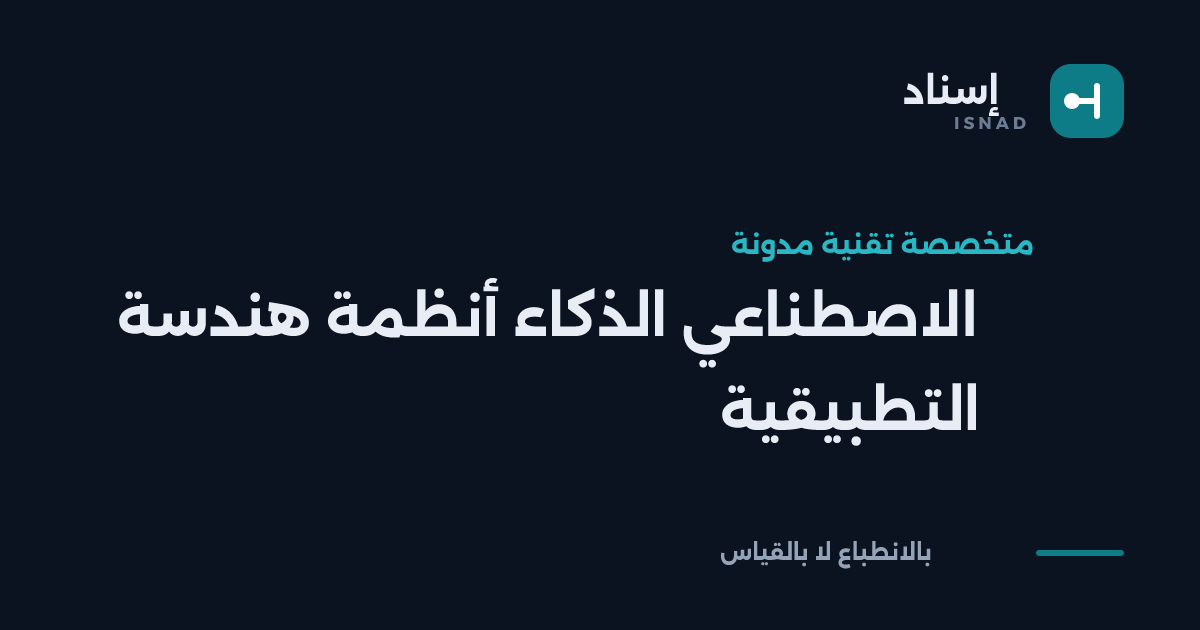
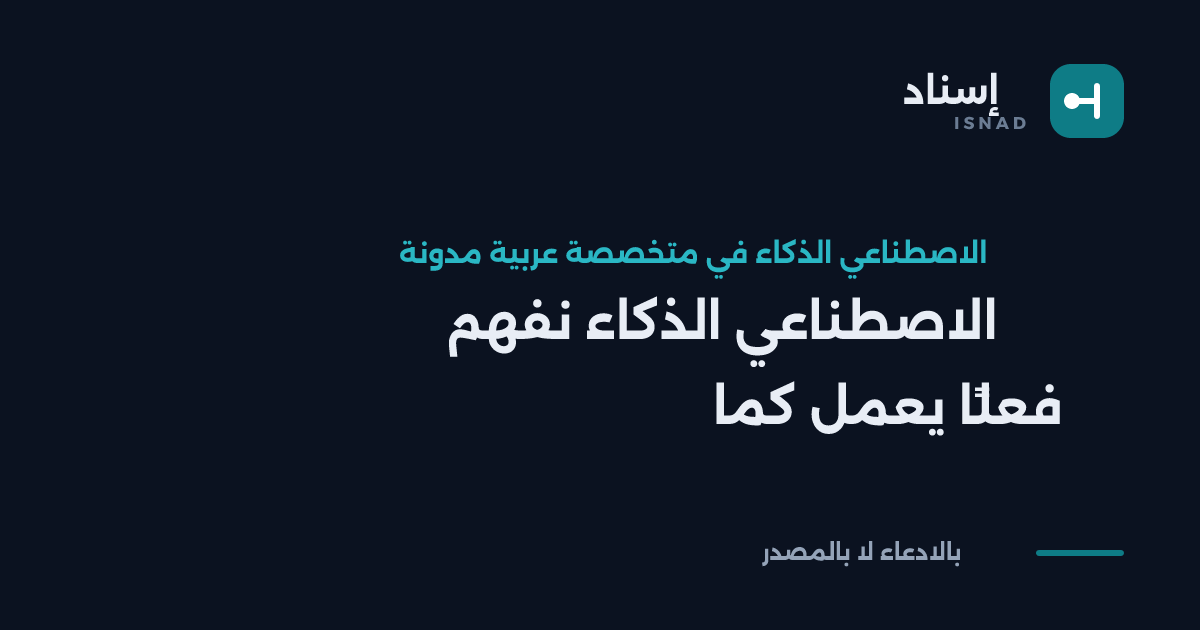
بطاقة المشاركة تُشتقّ من نصوص الرئيسية لا من الكود
كانت الشكوى أن البطاقة تعرض محتوى لا يطابق الموقع إذا فُتح. وهذا صحيح،
والسبب عيب في تصميمي: جعلتُ نصوص الرئيسية قابلة للتحرير من `/admin` ولم
أربط بها بطاقة المشاركة. فالمالكة تحرّر الموقع والبطاقة مجمّدة على نصّ
قديم — الموقع يقول «نفهم الذكاء الاصطناعي كما يعمل فعلًا» والصورة تقول
«هندسة أنظمة الذكاء الاصطناعي التطبيقية».

وهذا أضرّ من بطاقة بلا صورة: القارئ يرى وعدًا ثم يفتح صفحة تخالفه.

- `scripts/generate-og.tsx` يقرأ `content/settings/home.md` ويكتب
  `public/og.png` وقت البناء — يُشغَّل في `prebuild` و`predev`، فكل تحرير
  ينعكس في البطاقة بلا خطوة يدوية. ملف ثابت لا مسار يُولَّد عند الطلب.
- `generateMetadata` في الرئيسية يشتقّ `title` و`description` وog وtwitter
  من الملف نفسه بدل نصوص محفورة في `siteConfig`.
- `renderOgImage` صار يأخذ سطر الأسفل معطًى بعد أن كان ثابتًا، فلا يتجمّد
  على شعار قديم. وأغلفة المقالات تمرّر شعار الموقع.

## ثلاثة عيوب في الرسم كشفها النظر إلى الصورة

- النقطة الأخيرة محرف محايد الاتجاه، فتنتقل مع عكس الكلمات إلى الطرف
  الخطأ: «بالمصدر لا بالادعاء.» تظهر «لا بالمصدر .بالادعاء». تُنزع.
- الرصف الجشع كان يترك كلمة وحيدة في السطر الأخير («فعلًا» تحت سطر كامل).
  صار يُعاد الرصف على عرض أضيق يوزّع الكلمات على العدد نفسه من الأسطر.
- مقاس الخطّ كان قفزة واحدة عند ٥٨ محرفًا؛ صار ثلاث درجات فلا يفيض
  العنوان المتوسّط ولا يُصغَّر بلا داعٍ.
- والشارة الطويلة كانت تُوصل سطرًا واحدًا يفيض عن العرض؛ صارت تُرسم أسطرًا.

## تصحيح

قلتُ في الجولة السابقة إن الزاحف يتخلّى عن الصورة المولَّدة عند الطلب.
[…]

Changed region(s): [[0.0925, 0.3619, 0.8942, 0.7238], [0.5858, 0.8444, 0.8017, 0.9048]]

diff --git a/src/lib/og.tsx b/src/lib/og.tsx
@@ -24,23 +24,44 @@ function loadFont(): Buffer {
  */
 const WORD_SPACE = "\u00A0";
 
-function toRtlLines(text: string, maxChars: number): string[] {
-  const lines: string[] = [];
+function wrap(words: string[], maxChars: number): string[][] {
+  const lines: string[][] = [];
   let current: string[] = [];
   let length = 0;
 
-  for (const word of text.split(/\s+/)) {
+  for (const word of words) {
     if (length + word.length + (current.length ? 1 : 0) > maxChars && current.length) {
-      lines.push(current.reverse().join(WORD_SPACE));
+      lines.push(current);
       current = [];
       length = 0;
     }
     current.push(word);
     length += word.length + (current.length > 1 ? 1 : 0);
   }
-  if (current.length) lines.push(current.reverse().join(WORD_SPACE));
+  if (current.length) lines.push(current);
 
   return lines;
+}
+
+function toRtlLines(text: string, maxChars: number): string[] {
+  const words = text.split(/\s+/).filter(Boolean);
+  if (!words.length) return [];
+
+  // الرصف الجشع يترك كلمة وحيدة في السطر الأخير («فعلًا» تحت عنوان كامل).
+  // فيُعاد الرصف على عرض أضيق يوزّع الكلمات على العدد نفسه من الأسطر.
+  let lines = wrap(words, maxChars);
+  if (lines.length > 1) {
+    const total = words.join(" ").length;
+    for (let width = Math.ceil(total / lines.length); width <= maxChars; width += 1) {
+      const balanced = wrap(words, width);
+      if (balanced.length === lines.length) {
+        lines = balanced;
+        break;
+      }
+    }
+  }
+
+  return lines.map((line) => [...line].reverse().join(WORD_SPACE));
 }
 
 /** شعار الاستلزام المنطقي مرسومًا بالعناصر — الرمز نفسه غير موجود في الخط. */
@@ -65,10 +86,19 @@ function Mark() {
   );
 }
 
-export function renderOgImage({ title, eyebrow }: { title: string; eyebrow: string }) {
+export function renderOgImage({
+  title,
+  eyebrow,
+  footer,
+}: {
+  title: string;
+  eyebrow: string;
+  /** سطر الأسفل. صار معطًى لا ثابتًا كي لا يتجمّد على شعار قديم. */
+  footer: string;
+}) {
   const font = loadFont();
   // الإسكندرية خطّ عريض؛ العرض المتاح ~١٠٤٨px، فنحسب أطول سطر يسعه المقاس.
-  const fontSize = title.length > 58 ? 46 : 54;
+  const fontSize = title.length > 58 ? 42 : title.length > 30 ? 48 : 54;
   const lines = toRtlLines(title, Math.floor(1048 / (fontSize * 0.62)));
 
   return new ImageResponse(
@@ -94,9 +124,11 @@ export function renderOgImage({ title, eyebrow }: { title: string; eyebrow: stri
         </div>
 
         <div style={{ display: "flex", flexDirection: "column", gap: 18, alignItems: "flex-end" }}>
-          <span style={{ color: "#2AB7C4", fontSize: 27 }}>
-            {toRtlLines(eyebrow, 60).join(WORD_SPACE)}
-          </span>
+          {toRtlLines(eyebrow, 46).map((line) => (
+            <span key={line} style={{ color: "#2AB7C4", fontSize: 27, whiteSpace: "nowrap" }}>
+              {line}
+            </span>
+          ))}
           {lines.map((line) => (
             <span
               key={line}
@@ -110,7 +142,7 @@ export function renderOgImage({ title, eyebrow }: { title: string; eyebrow: stri
 
         <div style={{ display: "flex", alignItems: "center", gap: 18, alignSelf: "flex-end" }}>
           <span style={{ color: "#94a3b8", fontSize: 22 }}>
-            {toRtlLines("بالقياس لا بالانطباع", 60).join(WORD_SPACE)}
+            {toRtlLines(footer, 60).join(WORD_SPACE)}
           </span>
           <div style={{ width: 88, height: 6, background: "#0E7C86", borderRadius: 999 }} />
         </div>

diff --git a/scripts/generate-og.tsx b/scripts/generate-og.tsx
@@ -1,0 +1,66 @@
+/**
+ * يولّد صورة المشاركة من نصوص الرئيسية التي تحرّرها المالكة.
+ *
+ * كانت الصورة تحمل نصًّا محفورًا في الكود، فلمّا صارت الرئيسية قابلة
+ * للتحرير من `/admin` بقيت الصورة على نصّها القديم: الموقع يقول شيئًا
+ * والبطاقة المنشورة تقول غيره. وهذا أسوأ من بطاقة بلا صورة، لأن القارئ
+ * يرى وعدًا ثم يفتح صفحة تقول سواه.
+ *
+ * تُولَّد ملفًّا ثابتًا في `public/` وقت البناء لا عند كل طلب: تعكس آخر
+ * تحرير، وتُقدَّم فورًا للزواحف بلا انتظار.
+ */
+import fs from "node:fs";
+import path from "node:path";
+
+import { parseFrontmatter } from "../src/lib/frontmatter";
+import { renderOgImage } from "../src/lib/og";
+
+const HOME = path.join(process.cwd(), "content", "settings", "home.md");
+const OUT = path.join(process.cwd(), "public", "og.png");
+
+function field(data: Record<string, unknown>, key: string, fallback: string): string {
+  return String(data[key] ?? "").trim() || fallback;
+}
+
+/** الشارة قد تحمل شرطة تفصل الوصف عن نفيه؛ الصورة تسع الشقّ الأول. */
+function shorten(text: string): string {
+  return text.split(/\s+—\s+/)[0].trim();
+}
+
+/**
+ * ينزع النقطة الأخيرة.
+ *
+ * ترتيب الكلمات في الصورة يُصحَّح بعكسها، والنقطة محرف محايد الاتجاه فتنتقل
+ * مع العكس إلى يسار الجملة: «بالمصدر لا بالادعاء.» تظهر «لا بالمصدر .بالادعاء».
+ * والنقطة لا تلزم في عنوان مصوَّر أصلًا.
+ */
+function stripFinalPeriod(text: string): string {
+  return text.replace(/\s*[.।]\s*$/, "").trim();
+}
+
+async function main() {
+  if (!fs.existsSync(HOME)) {
+    throw new Error("content/settings/home.md مفقود — لا مصدر لنصّ صورة المشاركة");
+  }
+
+  const { data } = parseFrontmatter(fs.readFileSync(HOME, "utf8"));
+  const titleTop = field(data, "titleTop", "هندسة أنظمة الذكاء الاصطناعي");
+  const titleAccent = field(data, "titleAccent", "");
+  const eyebrow = shorten(field(data, "badge", "مدونة تقنية متخصصة"));
+
+  // البنية تحاكي الرئيسية: شارة، ثم العنوان، ثم السطر الملوّن تحته.
+  const image = renderOgImage({
+    eyebrow,
+    title: stripFinalPeriod(titleTop),
+    footer: stripFinalPeriod(titleAccent) || eyebrow,
+  });
+
+  fs.writeFileSync(OUT, Buffer.from(await image.arrayBuffer()));
+  const kb = Math.round(fs.statSync(OUT).size / 1024);
+  console.log(`✓ public/og.png (${kb}KB) — «${titleTop}»`);
+}
+
+main().catch((error) => {
+  console.error("✗ تعذّر توليد صورة المشاركة:", error);
+  process.exit(1);
+});

diff --git a/src/app/page.tsx b/src/app/page.tsx
@@ -220,29 +220,36 @@ function Principle({ title, children }: { title: string; children: React.ReactNo
 }
 
 /**
- * عنوان الرئيسية. كان يُعرَّف في `title` وحده، فيرث `og:title` و`twitter:title`
- * عنوانَ الجذر الأقصر — فيختلف ما يقرؤه محرّك البحث عمّا تعرضه لينكدإن
- * للرابط نفسه. مصدر واحد يمنع التباعد.
+ * بيانات الرئيسية الوصفية تُشتقّ من `content/settings/home.md` — الملف نفسه
+ * الذي تحرّره المالكة.
+ *
+ * كانت مكتوبة في الكود، فلمّا صارت الرئيسية قابلة للتحرير انفصلت البطاقة
+ * المنشورة عن الصفحة: الموقع يقول شيئًا وما يظهر في لينكدإن يقول غيره.
+ * وهذا أضرّ من بطاقة بلا صورة، لأن القارئ يرى وعدًا ثم يفتح صفحة تخالفه.
  */
-const HOME_TITLE = `${siteConfig.name} — هندسة أنظمة الذكاء الاصطناعي التطبيقية بالعربية`;
+export function generateMetadata(): Metadata {
+  const copy = getHomeCopy();
+  const title = `${siteConfig.name} — ${copy.titleTop.replace(/\s*[.]\s*$/, "")}`;
+  const description = copy.lead;
 
-export const metadata: Metadata = {
-  title: HOME_TITLE,
-  description: siteConfig.description,
-  alternates: { canonical: "/" },
-  openGraph: {
-    type: "website",
-    locale: "ar_AR",
-    url: siteConfig.url,
-    siteName: siteConfig.name,
-    title: HOME_TITLE,
-    description: siteConfig.description,
-    images: [OG_IMAGE],
-  },
-  twitter: {
-    card: "summary_large_image",
-    title: HOME_TITLE,
-    description: siteConfig.description,
-    images: [OG_IMAGE],
-  },
-};
+  return {
+    title,
+    description,
+    alternates: { canonical: "/" },
+    openGraph: {
+      type: "website",
+      locale: "ar_AR",
+      url: siteConfig.url,
+      siteName: siteConfig.name,
+      title,
+      description,
+      images: [OG_IMAGE],
+    },
+    twitter: {
+      card: "summary_large_image",
+      title,
+      description,
+      images: [OG_IMAGE],
+    },
+  };
+}

diff --git a/src/app/articles/[slug]/opengraph-image.tsx b/src/app/articles/[slug]/opengraph-image.tsx
@@ -1,4 +1,5 @@
 import { categoryBySlug } from "@/config/categories";
+import { siteConfig } from "@/config/site";
 import { getArticle, getArticleSlugs } from "@/lib/articles";
 import { OG_SIZE, renderOgImage } from "@/lib/og";
 
@@ -17,5 +18,7 @@ export default async function ArticleOgImage({ params }: { params: Promise<{ slu
   return renderOgImage({
     eyebrow: categoryBySlug.get(article?.category ?? "")?.name ?? "إسناد",
     title: article?.title ?? "إسناد",
+    // سطر الموقع الثابت — العنوان هنا عنوان المقال لا نصّ الرئيسية.
+    footer: siteConfig.tagline,
   });
 }
